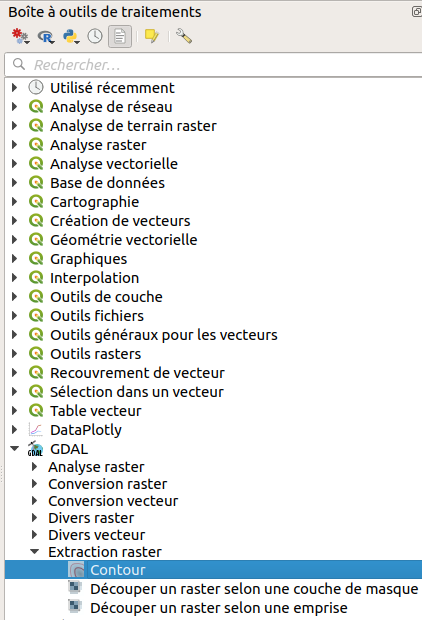
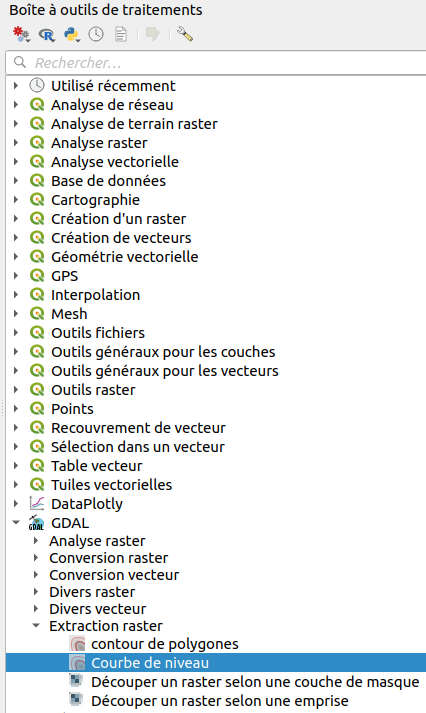
maj 3.22 partie 9

Changed region(s): [[0.0, 0.0, 1.0, 1.0], [0.955, 0.0, 1.0, 0.0306]]

diff --git a/09_02_raster.php b/09_02_raster.php
@@ -63,7 +63,7 @@
 					</figure>
 					<ul>
 						<li class="espace">Couche source : sélectionnez <em class="data">srtm_21_09</em></li>
-						<li class="espace">Etendue de découpage : cliquez sur le bouton <b>...</b> tout à droite, choisissez <b>Sélectionner l'emprise depuis le canevas</b>. Il faut ensuite dessiner l'emprise à garder, toujours dans l'outil de découpage. Dessinez un rectangle approximatif autour de l'île de la Jamaïque :
+						<li class="espace">Etendue de découpage : cliquez sur le bouton <b>...</b> tout à droite, choisissez <b>Dessiner sur le canevas</b>. Il faut ensuite dessiner l'emprise à garder, toujours dans l'outil de découpage. Dessinez un rectangle approximatif autour de l'île de la Jamaïque :
     						<a href="illustrations/tous/9_2_decoupe_jam.png" >
     							<img src="illustrations/tous/9_2_decoupe_jam.png" alt="Menu Raster, Extraction, Découper" width="400" >
     						</a></li>
@@ -255,12 +255,12 @@
     				
     				<div class="manip">
     					<p>Rendez-vous dans la
-    						<a class="thumbnail_bottom" href="#thumb">boîte à outils &#8594; GDAL &#8594; Extraction raster &#8594; Contour
+    						<a class="thumbnail_bottom" href="#thumb">boîte à outils &#8594; GDAL &#8594; Extraction raster &#8594; Courbe de niveau
     							<span>
-    								<img src="illustrations/tous/9_2_contours_menu.png" alt="Emplacement de l'outil Contour dans la boîte à outils" width="600" >
+    								<img src="illustrations/tous/9_2_contours_menu.png" alt="Emplacement de l'outil Contour dans la boîte à outils" width="350" >
     							</span>
     						</a>
-    					:</p>
+    					(dans les versions pécédentes de QGIS, cet outil peut se nommer <em>contour</em>)&nbsp;:</p>
     					<figure>
     					   <a href="illustrations/tous/9_2_contours_fenetre.png" >
     					       <img src="illustrations/tous/9_2_contours_fenetre.png" alt="Fenêtre de l'outil de création de contours" width="600" >
@@ -296,91 +296,91 @@
     				<p>La pente est calculée en fonction de la distance horizontale et de la hauteur. Dans notre cas, la hauteur est en mètres, et la distance horizontale en degrés. Les deux unités étant différentes, le calcul de pente donnera des valeurs aberrantes.</p>
     				<p>La première étape est donc de <b>projeter notre raster, pour obtenir des unités identiques verticalement et horizontalement.</b></p>
     			
+  					<p>Quelle projection utiliser pour notre raster ?</p>
+  					<p>En règle générale, il y a deux possibilités quand on cherche une projection pour un pays : utiliser une projection nationale, ou bien une <a href="02_02_coord.php#II22d" >projection UTM</a>.</p>
+  					<p>Pour savoir s'il existe dans QGIS des projections  nationales pour la Jamaïque, vous pouvez faire une recherche dans les SCR proposés.</p>
+  					
+  					<div class="manip">
+  						<p><img class="icone" src="illustrations/tous/2_3_scr_projet_icone.png" alt="icône SCR" >Rendez-vous dans les propriétés du projet, rubrique SCR, par exemple en cliquant sur l'icône de sphère tout en bas à droite de la fenêtre de QGIS :</p>
+  						<figure>						
+  							<a href="illustrations/tous/9_2_scr_jamaica.png">
+  								<img src="illustrations/tous/9_2_scr_jamaica.png" alt="Recherche d'un SCR pour la Jamaïque" width="600" >
+  							</a>
+  						</figure>
+  						<p>Tapez <b>jamaica</b> dans la rubrique <b>Filtre</b> : plusieurs réponses sont proposées, dont 3 SCR projetés. Une rapide recherche internet semble indiquer que le SCR <b>JAD2001</b> est le plus récent (source : <a class="ext" target="_blank" href="http://www.jamaicancaves.org/jad2001.htm" >http://www.jamaicancaves.org/jad2001.htm</a>). C'est donc ce SCR que nous utiliserons.</p>
+  						<p>Sélectionnez <b>JAD2001 (code EPSG:3448) et cliquez sur <b>OK</b>.</b></p>
+  					</div>
+  					
+  					<p>Nous venons de changer le SCR du projet, mais pas celui de notre raster (pour rappel, voir <a href="02_03_couches_projets.php">ici</a>).</p>
+  					
+  					<div class="manip">
+  						<p>Une étape préliminaire avant de projeter le raster : ouvrez les propriétés du raster, rubrique <b>Information</b>, sous-rubrique <b>Bandes</b>, recherchez <b>Aucune valeur de données</b>. Vous devriez avoir -32768, notez cette valeur. C'est celle utilisée pour les pixels &#171; sans valeur &#187; (qui ont donc en réalité la valeur -32768), en-dehors de l'île.</p>
+  						<p>Ensuite, pour changer le SCR du raster :
+  							<a class="thumbnail_bottom" href="#thumb">Boîte à outils &#8594; GDAL &#8594; Projections raster &#8594; Projection (warp)
+  								<span>
+  									<img src="illustrations/tous/9_2_reproj_raster_menu.png" alt="Menu Raster , Projections, Projection..." width="280" >
+  								</span>
+  							</a>
+  						:</p>
+  						<figure>
+  							<a href="illustrations/tous/9_2_reproj_raster_fenetre.png">
+  								<img src="illustrations/tous/9_2_reproj_raster_fenetre.png" alt="Fenêtre de reprojection du raster" width="600" >
+  							</a>
+  						</figure>
+  						<ul>
+  							<li class="espace">Couche source : sélectionnez <em class="data">srtm_jamaique</em> dans la liste</li>
+  							<li class="espace">SCR cible : cliquez sur le bouton à droite pour rechercher le SCR <b>JAD2001 code EPSG:3448</b></li>
+  							<li class="espace">Valeur Nodata : tapez la <a href="09_02_raster.php#IX22b">valeur des pixels sans données</a> : <b>-32768</b></li>
+  							<li class="espace">Laissez tous les autres paramètres par défaut, cliquez sur <b>Exécuter</b>.</li>
+  						</ul>
+  						<p>Patientez... La nouvelle couche est ajoutée, vous pouvez vérifier dans ses propriétés (rubrique Source) que son SCR soit bien le JAD2001.</p>
+  						<figure>
+  							<a href="illustrations/tous/9_2_scr_ok.png">
+  								<img src="illustrations/tous/9_2_scr_ok.png" alt="scr de la nouvelle couche : JAD2001" width="500" >
+  							</a>
+  						</figure>
+  						<p class="note">Il semblerait qu'il ne soit plus utile de préciser la valeur NoData, celle-ci étant automatiquement lue dans les propriétés du raster en entrée&nbsp;!</p>
+  						<p>Supprimez les autres couches, pour ne garder dans le projet que la couche <em class="data">srtm_jamaique_JAD2001</em>.</p>
+  					</div>
     				
-    					<p>Quelle projection utiliser pour notre raster ?</p>
-    					<p>En règle générale, il y a deux possibilités quand on cherche une projection pour un pays : utiliser une projection nationale, ou bien une <a href="02_02_coord.php#II22d" >projection UTM</a>.</p>
-    					<p>Pour savoir s'il existe dans QGIS des projections  nationales pour la Jamaïque, vous pouvez faire une recherche dans les SCR proposés.</p>
-    					
-    					<div class="manip">
-    						<p><img class="icone" src="illustrations/tous/2_3_scr_projet_icone.png" alt="icône SCR" >Rendez-vous dans les propriétés du projet, rubrique SCR, par exemple en cliquant sur l'icône de sphère tout en bas à droite de la fenêtre de QGIS :</p>
-    						<figure>						
-    							<a href="illustrations/tous/9_2_scr_jamaica.png">
-    								<img src="illustrations/tous/9_2_scr_jamaica.png" alt="Recherche d'un SCR pour la Jamaïque" width="600" >
-    							</a>
-    						</figure>
-    						<p>Tapez <b>jamaica</b> dans la rubrique <b>Filtre</b> : plusieurs réponses sont proposées, dont 3 SCR projetés. Une rapide recherche internet semble indiquer que le SCR <b>JAD2001</b> est le plus récent (source : <a class="ext" target="_blank" href="http://www.jamaicancaves.org/jad2001.htm" >http://www.jamaicancaves.org/jad2001.htm</a>). C'est donc ce SCR que nous utiliserons.</p>
-    						<p>Sélectionnez <b>JAD2001 (code EPSG:3448) et cliquez sur <b>OK</b>.</b></p>
-    					</div>
-    					
-    					<p>Nous venons de changer le SCR du projet, mais pas celui de notre raster (pour rappel, voir <a href="02_03_couches_projets.php">ici</a>).</p>
-    					
-    					<div class="manip">
-    						<p>Une étape préliminaire avant de projeter le raster : ouvrez les propriétés du raster, rubrique <b>Information</b>, sous-rubrique <b>Bandes</b>, recherchez <b>Aucune valeur de données</b>. Vous devriez avoir -32768, notez cette valeur. C'est celle utilisée pour les pixels &#171; sans valeur &#187; (qui ont donc en réalité la valeur -32768), en-dehors de l'île.</p>
-    						<p>Ensuite, pour changer le SCR du raster :
-    							<a class="thumbnail_bottom" href="#thumb">Boîte à outils &#8594; GDAL &#8594; Projections raster &#8594; Projection (warp)
-    								<span>
-    									<img src="illustrations/tous/9_2_reproj_raster_menu.png" alt="Menu Raster , Projections, Projection..." width="280" >
-    								</span>
-    							</a>
-    						:</p>
-    						<figure>
-    							<a href="illustrations/tous/9_2_reproj_raster_fenetre.png">
-    								<img src="illustrations/tous/9_2_reproj_raster_fenetre.png" alt="Fenêtre de reprojection du raster" width="600" >
-    							</a>
-    						</figure>
-    						<ul>
-    							<li class="espace">Couche source : sélectionnez <em class="data">srtm_jamaique</em> dans la liste</li>
-    							<li class="espace">SCR cible : cliquez sur le bouton à droite pour rechercher le SCR <b>JAD2001 code EPSG:3448</b></li>
-    							<li class="espace">Valeur Nodata : tapez la <a href="09_02_raster.php#IX22b">valeur des pixels sans données</a> : <b>-32768</b></li>
-    							<li class="espace">Laissez tous les autres paramètres par défaut, cliquez sur <b>Exécuter</b>.</li>
-    						</ul>
-    						<p>Patientez... La nouvelle couche est ajoutée, vous pouvez vérifier dans ses propriétés (rubrique Source) que son SCR soit bien le JAD2001.</p>
-    						<figure>
-    							<a href="illustrations/tous/9_2_scr_ok.png">
-    								<img src="illustrations/tous/9_2_scr_ok.png" alt="scr de la nouvelle couche : JAD2001" width="500" >
-    							</a>
-    						</figure>
-    						<p>Supprimez les autres couches, pour ne garder dans le projet que la couche <em class="data">srtm_jamaique_JAD2001</em>.</p>
-    					</div>
     				
-    				
-    				<h4>Calcul de pente à partir du raster projeté<a class="headerlink" id="IX24c" href="#IX24c"></a></h4>
-    				
-    					<div class="manip">
-    						<p>Rendez-vous dans la 
-    							<a class="thumbnail_bottom" href="#thumb">boîte à outils &#8594; GDAL &#8594; Analyse raster &#8594; Pente
-    								<span>
-    									<img src="illustrations/tous/9_2_pente_menu.png" alt="Menu Raster, Analyse, MNT/DEM (Modèles de terrain)" width="350" >
-    								</span>
-    							</a>
-    						:</p>
-    						<figure>
-    							<a href="illustrations/tous/9_2_pente_fenetre.png">
-    								<img src="illustrations/tous/9_2_pente_fenetre.png" alt="Fenêtre de calcul de pente" width="500" >
-    							</a>
-    						</figure>
-    						<ul>
-    							<li class="espace">Couche source : sélectionnez <em class="data">srtm_jamaique_JAD2001</em></li>
-    							<li class="espace">Laissez les autres paramètres par défaut (pour plus d'infos sur les méthodes de Zevenberger & Thorne et Horn : <a class="ext" target="_blank" href="http://www.macaulay.ac.uk/LADSS/documents/DEMs-for-spatial-modelling.pdf" >http://www.macaulay.ac.uk/LADSS/documents/DEMs-for-spatial-modelling.pdf</a>, pp. 12 et 13).</li>
-    						</ul>
-    						<p>Cliquez sur <b>Exécuter</b>, patientez... la couche s'affiche :</p>
-    						<figure>
-    							<a href="illustrations/tous/9_2_pente_res.png">
-    								<img src="illustrations/tous/9_2_pente_res.png" alt="la couche de pentes" width="400" >
-    							</a>
-    						</figure>
-    						<p>Ici, les pixels sombres représentent des pentes faibles et les pixels clairs de fortes pentes.</p>
-    						<p><img class="icone" src="illustrations/tous/8_2_id_icone.png" alt="menu projet, sauvegarder sous..." >En cliquant sur un pixel avec l'outil <b>Identifier les entités</b>, vous pouvez connaître la valeur de la pente pour ce pixel :</p>
-    						<figure>
-    							<a href="illustrations/tous/9_2_id_pente.png">
-    								<img src="illustrations/tous/9_2_id_pente.png" alt="la couche de pentes" width="400" >
-    							</a>
-    						</figure>
-    						<p>Ici, le pixel a une pente de 13,5° environ.</p>
-    					</div>
-    					
-    					<p>Il existe beaucoup d'autres traitements possibles sur les données raster. Mais pourquoi toujours opposer raster et vecteur&nbsp;? Dans le prochain chapitre, découvrez comment les faire fonctionner main dans la main&nbsp;!</p>
-			
+  				<h4>Calcul de pente à partir du raster projeté<a class="headerlink" id="IX24c" href="#IX24c"></a></h4>
+  				
+  					<div class="manip">
+  						<p>Rendez-vous dans la 
+  							<a class="thumbnail_bottom" href="#thumb">boîte à outils &#8594; GDAL &#8594; Analyse raster &#8594; Pente
+  								<span>
+  									<img src="illustrations/tous/9_2_pente_menu.png" alt="Menu Raster, Analyse, MNT/DEM (Modèles de terrain)" width="350" >
+  								</span>
+  							</a>
+  						:</p>
+  						<figure>
+  							<a href="illustrations/tous/9_2_pente_fenetre.png">
+  								<img src="illustrations/tous/9_2_pente_fenetre.png" alt="Fenêtre de calcul de pente" width="500" >
+  							</a>
+  						</figure>
+  						<ul>
+  							<li class="espace">Couche source : sélectionnez <em class="data">srtm_jamaique_JAD2001</em></li>
+  							<li class="espace">Laissez les autres paramètres par défaut (pour plus d'infos sur les méthodes de Zevenberger & Thorne et Horn : <a class="ext" target="_blank" href="http://www.macaulay.ac.uk/LADSS/documents/DEMs-for-spatial-modelling.pdf" >http://www.macaulay.ac.uk/LADSS/documents/DEMs-for-spatial-modelling.pdf</a>, pp. 12 et 13).</li>
+  						</ul>
+  						<p>Cliquez sur <b>Exécuter</b>, patientez... la couche s'affiche :</p>
+  						<figure>
+  							<a href="illustrations/tous/9_2_pente_res.png">
+  								<img src="illustrations/tous/9_2_pente_res.png" alt="la couche de pentes" width="400" >
+  							</a>
+  						</figure>
+  						<p>Ici, les pixels sombres représentent des pentes faibles et les pixels clairs de fortes pentes.</p>
+  						<p><img class="icone" src="illustrations/tous/8_2_id_icone.png" alt="menu projet, sauvegarder sous..." >En cliquant sur un pixel avec l'outil <b>Identifier les entités</b>, vous pouvez connaître la valeur de la pente pour ce pixel :</p>
+  						<figure>
+  							<a href="illustrations/tous/9_2_id_pente.png">
+  								<img src="illustrations/tous/9_2_id_pente.png" alt="la couche de pentes" width="400" >
+  							</a>
+  						</figure>
+  						<p>Ici, le pixel a une pente de 13,5° environ.</p>
+  					</div>
+  					
+  					<p>Il existe beaucoup d'autres traitements possibles sur les données raster. Mais pourquoi toujours opposer raster et vecteur&nbsp;? Dans le prochain chapitre, découvrez comment les faire fonctionner main dans la main&nbsp;!</p>
+		
 		
 				<br>
 				<a class="suiv" href="09_03_vecteur_raster.php">chapitre suivant</a>

diff --git a/09_03_vecteur_raster.php b/09_03_vecteur_raster.php
@@ -49,13 +49,13 @@
 			<h3><a class="titre" id="IX32">Attribuer à chaque point une valeur d'élévation<a class="headerlink" id="IX32" href="#IX32"></a></h3>
 			
 				<p>Comment faire pour donner à chacun des points sa valeur d'élévation&nbsp;? Il faut pour cela attribuer à chaque point la valeur du pixel qui le recouvre.</p>
-				<p>Une recherche dans la boîte à outils, rubrique Analyse Raster, permet de découvrir l'outil <b>Prélever des valeurs raster</b> qui semble correspondre à ce que l'on cherche.</p>
+				<p>Une recherche dans la boîte à outils, rubrique Analyse Raster, permet de découvrir l'outil <b>Prélèvement des valeurs rasters vers ponctuels</b> qui semble correspondre à ce que l'on cherche.</p>
 				
 				<div class="manip">
 				    <p>
-				        <a class="thumbnail_bottom" href="#thumb">Boîte à outils &#8594; Analyse raster &#8594; Prélever des valeurs raster
+				        <a class="thumbnail_bottom" href="#thumb">Boîte à outils &#8594; Analyse raster &#8594; Prélèvement des valeurs rasters vers ponctuels
                         	<span>
-                        		<img src="illustrations/tous/9_3_prelev_raster_emplacement.png" alt="Emplacement de l'outil Prélever des valeurs raster dans la boîte à outils" width="400" >
+                        		<img src="illustrations/tous/9_3_prelev_raster_emplacement.png" alt="Emplacement de l'outil Prélever des valeurs raster dans la boîte à outils" width="350" >
                         	</span>
                         </a>
 				    </p>
@@ -72,11 +72,11 @@
 					</ul>
 			     </div>
 			     <p>Ici, notre raster ne possède qu'une seule bande. Certains raster en possèdent plusieurs, c'est le cas par exemple des images satellites qui ont différentes bandes pour le vert, le rouge, l'infrarouge etc.</p>
-			     <p>Cet outil ajoutera autant de colonnes à la table de la couche de points que de bandes dans le raster. Ces champs auront en suffixe le numéro de bande (_01, _02...), auquel il est donc possible de rajouter un préfixe.</p>
-			     <p>Ici, le nouveau champ sera donc nommé elev_1.</p>
+			     <p>Cet outil ajoutera autant de colonnes à la table de la couche de points que de bandes dans le raster. Ces champs auront en suffixe le numéro de bande (1, 2...), auquel il est donc possible de rajouter un préfixe.</p>
+			     <p>Ici, le nouveau champ sera donc nommé elev1.</p>
 			     <div class="manip">
 					<p>Cliquez sur <b>Exécuter</b>, la couche temporaire est ajoutée et se nomme <b>Sampled Points</b>. Elle possède les mêmes géométries que la couche de points en entrée, et une colonne de plus dans sa table.</p>
-					<p>Ouvrez sa table attributaire pour le vérifier : une colonne <b>elev_1</b> a été ajoutée, où l'élévation de chaque point est renseignée.</p>
+					<p>Ouvrez sa table attributaire pour le vérifier : une colonne <b>elev1</b> a été ajoutée, où l'élévation de chaque point est renseignée.</p>
 					 <figure>
 						<a href="illustrations/tous/9_3_table.png" >
 							<img src="illustrations/tous/9_3_table.png" alt="Table attributaire de la couche créée, avec la colonne elev_1" width="400" >

diff --git a/09_05_maillage_sql.php b/09_05_maillage_sql.php
@@ -346,7 +346,7 @@ WHERE area_ha < 25</p>
 			             <p>Après avoir exécuté cette requête et actualisé la base, la table grid00 est visible. Elle ne comporte aucune ligne et une seule colonne <b>id</b>.</p>
 			             <p>Il faut ensuite lui ajouter une colonne de géométrie de type multipolygone&nbsp;:</p>
 			             <p class="code">SELECT AddGeometryColumn('grid00','geom',2154,'MULTIPOLYGON','XY');</p>
-			             <p>La table est maintenant une couche de polygones avec une colonne de géométrie <b>geom</b>.</p>
+			             <p>La table est maintenant une couche de polygones avec une colonne de géométrie <b>geom</b>. Elle ne contient encore aucune entité, ce que vous pouvez vérifier dans les onglets table et aperçu.</p>
 			             <p>Il ne reste plus qu'à mettre à jour la géométrie avec la fonction <a class="ext" target="_blank" href="http://www.gaia-gis.it/gaia-sins/spatialite-sql-5.0.0.html" >ST_SquareGrid</a>&nbsp;:</p>
 			             <p class="code">INSERT INTO grid00 (geom) SELECT ST_SquareGrid(Extent(v.geom), 50000) AS geom FROM clc00_vignes AS v</p>
 			             <p>Cette dernière requête créer une grille avec la même étendue que clc00_vignes, et une maille de 50 km. La fonction <b>ST_SquareGrid</b> prend 2 arguments :</p>
@@ -658,6 +658,7 @@ WHERE g1.gid = g2.gid;</p>
         	               <li class="espace">...sur le champ <b>diff_surf</b></li>
         	               <li class="espace">Sélectionnez une palette de couleur divergente, pour représenter d'une couleur les diminutions et d'une autre les augmentations</li>
         	               <li class="espace">Choissisez une discrétisation par intervalles égaux</li>
+        	               <li class="espace">Cliquez sur le bouton <b>Classer</b></li>
         	               <li class="espace">Cochez la case <b>Classification symétrique</b>, pour représenter avec la même intensité de couleur des variations positives et négatives de même ampleur, avec comme valeur du milieu <b>0</b></li>
         	            </ul>
         	            <figure>

diff --git a/09_01_vecteur.php b/09_01_vecteur.php
@@ -205,7 +205,7 @@
 					
 				<h4>Pour aller plus loin&nbsp;: détail des autres paramètres<a class="headerlink" id="IX12d" href="#IX12d"></a></h4>
 					
-					<p>Les autres paramètres de l'outil de zone tampon sont moins fréquemment modifiés et vous pouvez souvent laisser les valeurs par défaut. Voici leur description pour information, que vous pouvez également retrouver dans l'aide (partie droite de la fenêtre de l'outil) ou bien la <a class="ext" target="_blank" href="https://docs.qgis.org/3.4/en/docs/user_manual/processing_algs/qgis/vectorgeometry.html?highlight=buffer#buffer" >documentation QGIS</a> :</p>
+					<p>Les autres paramètres de l'outil de zone tampon sont moins fréquemment modifiés et vous pouvez souvent laisser les valeurs par défaut. Voici leur description pour information, que vous pouvez également retrouver dans l'aide (partie droite de la fenêtre de l'outil) ou bien la <a class="ext" target="_blank" href="https://docs.qgis.org/latest/fr/docs/user_manual/processing_algs/qgis/vectorgeometry.html#buffer" >documentation QGIS</a> :</p>
 					<ul>
 					    <li class="espace"><b>Segments :</b> plus cette valeur est élevée, plus les contours de la zone seront « arrondis ». Il s'agit en fait du nombre de segments utilisés pour représenter un quart de cercle.</li>
     					<li class="espace"><b>Style d'extrémité :</b> il s'agit de la manière dont les zones tampons sont &#171; terminées &#187;. 3 valeurs sont possibles : rond, plat et carré</li>
